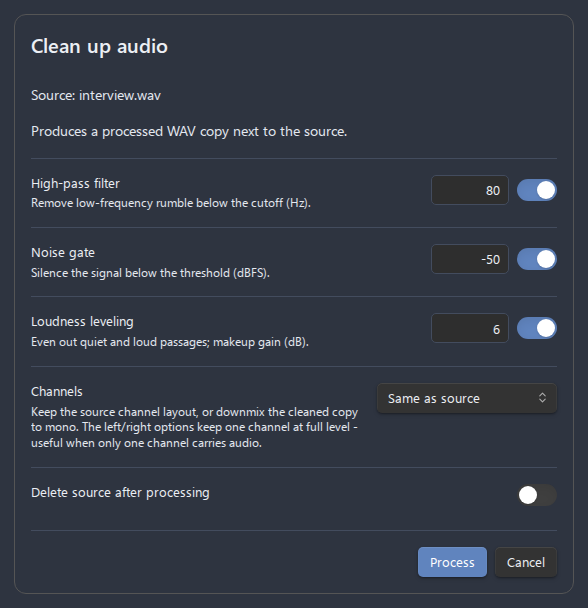
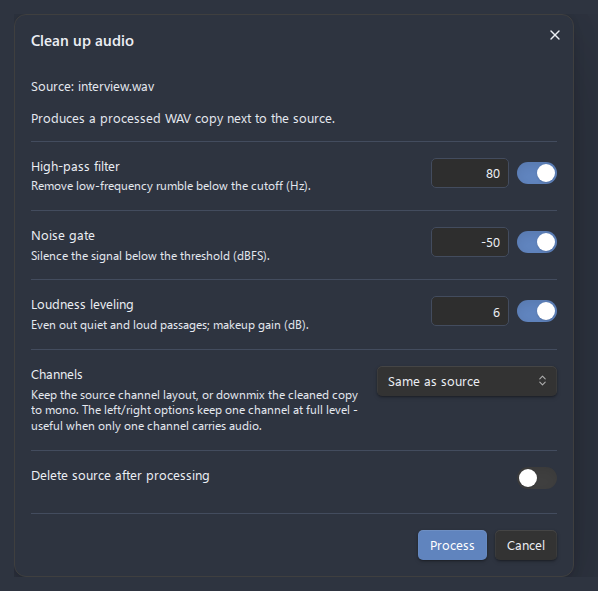
docs: re-render the figures of the surfaces the tokens change reached
The player card and its buttons take Obsidian's radii, the volume slider
is SliderComponent, the status-bar controls are native icon buttons in
the theme red, the mobile banner floats on the notice tokens, the dialog
Source line and the cost and progress lines take the interface text
sizes, and the progress bar is ProgressBarComponent. Every figure that
pictures one of them is rendered again from the changed code, in the
modal layout Obsidian 1.14.4 builds, and each one differed from the same
DOM rendered with master's stylesheet.

The phone player is now drawn in the phone frame from the plugin's DOM,
like the other mobile figures, and its alt text no longer gives the
first player a chapter list it never had.

diff --git a/docs/mobile-support.md b/docs/mobile-support.md
@@ -11,7 +11,7 @@ Advanced Audio Recorder runs in the **Obsidian mobile app** (iOS and Android) as
 - [Getting started on mobile](#getting-started-on-mobile)
 - [Related pages](#related-pages)
 
-![Two enhanced audio players on a phone, each showing a waveform, playback controls, and a chapter list](images/mobile-audio-player.png)
+![Two enhanced audio players in a note on a phone, each with its control row wrapped onto three lines above the waveform, the second with a list of two chapters](images/mobile-audio-player.png)
 
 ## What works on mobile
 
